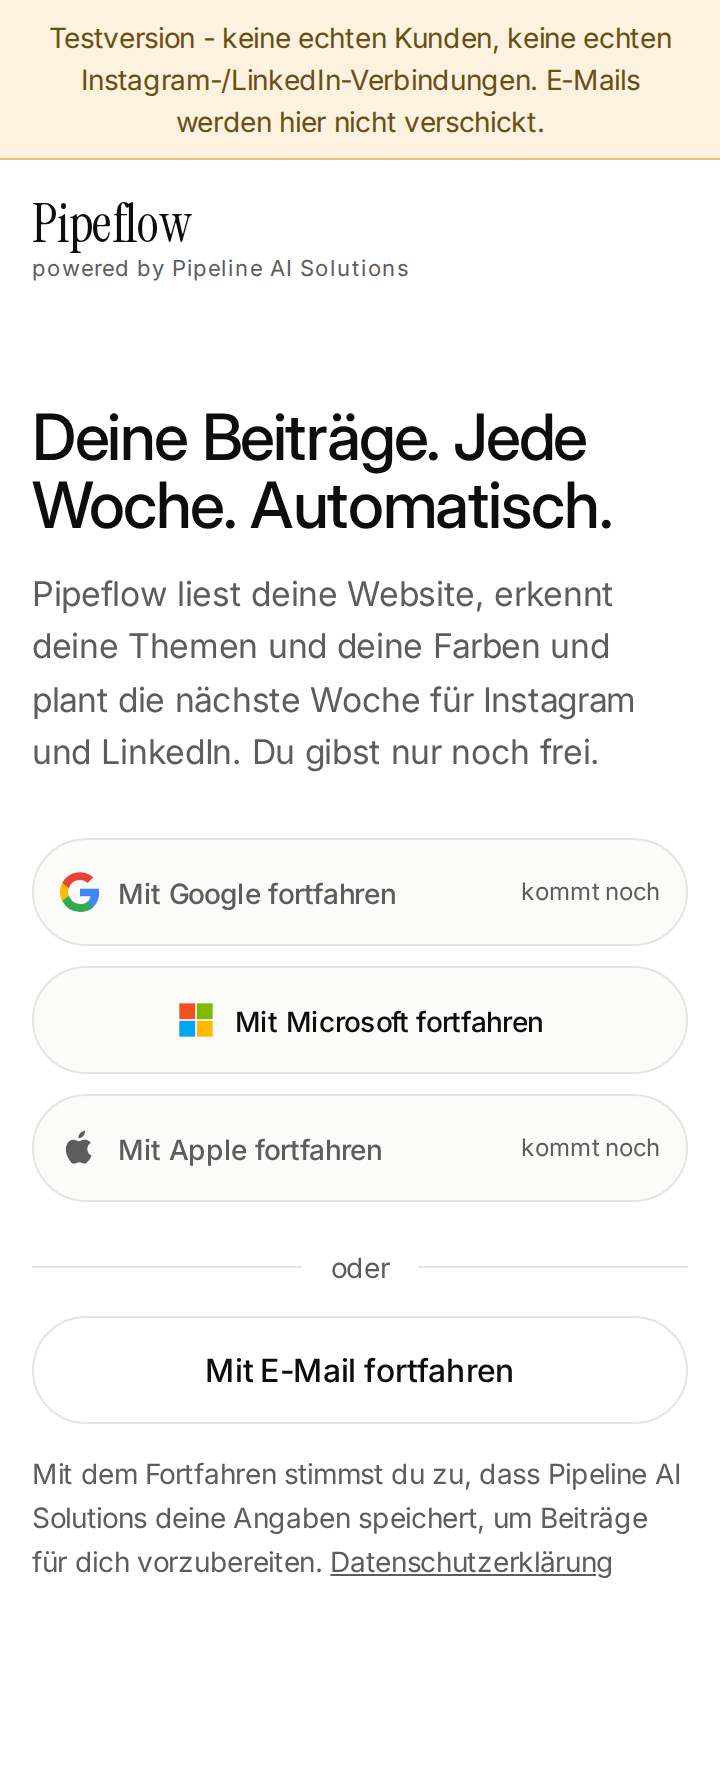
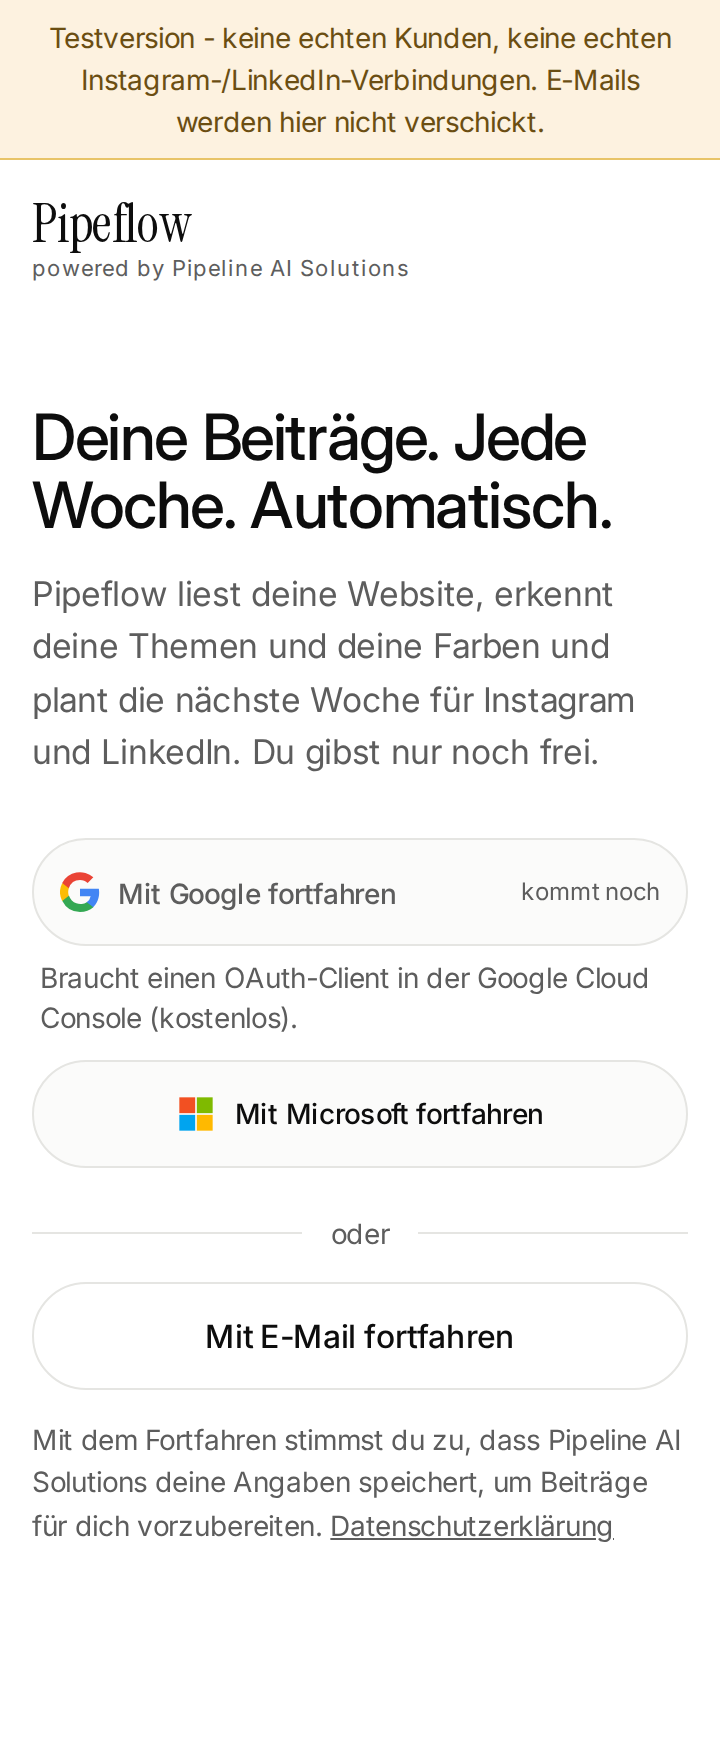
Anmeldebildschirm: Apple ganz raus, Hinweis steht beim Knopf
Apple bekommt hiddenUntilConfigured (Muster wie bei den Kanal-Providern) und
erscheint damit gar nicht mehr, statt ausgegraut dazustehen.

Der Hinweis zu einem nicht eingerichteten Anbieter war eine rote Meldung am
unteren Bildschirmrand, die sich bei jedem Tippen stapelte. Jetzt steht er als
ruhige graue Zeile direkt unter dem betreffenden Knopf, und der Knopf ist echt
disabled statt nur aria-disabled.

diff --git a/src/panel/auth-providers.ts b/src/panel/auth-providers.ts
@@ -40,6 +40,13 @@ export interface AuthProvider {
   name: string;
   /** Kurzer Satz fuer den Report/das Panel, wenn der Anbieter noch nicht eingerichtet ist. */
   pendingNote: string;
+  /**
+   * Solange keine Zugangsdaten hinterlegt sind, taucht dieser Anbieter im Panel GAR NICHT auf -
+   * kein ausgegrauter Knopf, kein "kommt noch". Fuer Anbieter, bei denen das Einrichten nicht
+   * blosses Eintragen ist, sondern eine Entscheidung mit Kosten (Apple: Developer Program).
+   * Dasselbe Muster wie `hiddenUntilConfigured` bei den Kanal-Providern (providers/index.ts).
+   */
+  hiddenUntilConfigured?: boolean;
   isConfigured(): boolean;
   authorizeUrl(state: string, nonce: string, redirectUri: string): string;
   exchangeCode(code: string, redirectUri: string): Promise<AuthIdentity>;
@@ -213,6 +220,9 @@ export const apple: AuthProvider = {
   id: "apple",
   name: "Apple",
   pendingNote: "Braucht ein Apple Developer Program (rund 99 USD im Jahr) - noch nicht vorhanden.",
+  // Bis das Developer Program da ist, zeigt das Panel Apple ueberhaupt nicht an (19.09.2026, auf
+  // Ansage): ein Knopf, der nur erklaert, warum er nicht geht, ist kein Angebot, sondern Lärm.
+  hiddenUntilConfigured: true,
   isConfigured: () => false,
   authorizeUrl() {
     throw new ToolError("Anmelden mit Apple ist noch nicht eingerichtet.");
@@ -229,6 +239,10 @@ export function getAuthProvider(id: string): AuthProvider | undefined {
   return authProviders.find((p) => p.id === id);
 }
 
+/** Was das Panel anbietet: alles Eingerichtete, plus das Nicht-Eingerichtete, das sich durch
+ *  blosses Eintragen von Zugangsdaten scharf schalten laesst. Siehe hiddenUntilConfigured. */
 export function authProvidersPublic(): { id: string; name: string; available: boolean; note: string | null }[] {
-  return authProviders.map((p) => ({ id: p.id, name: p.name, available: p.isConfigured(), note: p.isConfigured() ? null : p.pendingNote }));
+  return authProviders
+    .filter((p) => p.isConfigured() || !p.hiddenUntilConfigured)
+    .map((p) => ({ id: p.id, name: p.name, available: p.isConfigured(), note: p.isConfigured() ? null : p.pendingNote }));
 }

diff --git a/public/panel/start/start.js b/public/panel/start/start.js
@@ -181,7 +181,13 @@
         <div class="auth-liste">
           ${liste.map((p) => p.available
             ? `<a class="auth-btn" href="${esc(MOUNT)}/auth/${esc(p.id)}">${AUTH_LOGO[p.id] || ""}Mit ${esc(p.name)} fortfahren</a>`
-            : `<button type="button" class="auth-btn kommt-noch" data-auth-pending="${esc(p.id)}" aria-disabled="true">${AUTH_LOGO[p.id] || ""}Mit ${esc(p.name)} fortfahren<span class="bald">kommt noch</span></button>`).join("")}
+            // Nicht eingerichtet: der Grund steht direkt unter DIESEM Knopf. Frueher kam er als
+            // rote Meldung am unteren Bildschirmrand hoch - weit weg vom Knopf, und bei jedem
+            // Tippen eine weitere obendrauf.
+            : `<div class="auth-eintrag">
+                 <button type="button" class="auth-btn kommt-noch" disabled>${AUTH_LOGO[p.id] || ""}Mit ${esc(p.name)} fortfahren<span class="bald">kommt noch</span></button>
+                 ${p.note ? `<p class="auth-notiz">${esc(p.note)}</p>` : ""}
+               </div>`).join("")}
         </div>
         <div class="auth-trenner">oder</div>
         <div class="actions" style="margin-top:14px"><button type="button" class="btn secondary lg" data-go="email">Mit E-Mail fortfahren</button></div>
@@ -1060,12 +1066,6 @@
       if (ziel === "home") { go(angemeldet() ? (eingerichtet() ? "dashboard" : "ergebnis") : "konto"); return; }
       if (ziel === "dashboard" && !eingerichtet()) { go("plan"); return; }
       go(ziel);
-      return;
-    }
-    const bald = t.closest("[data-auth-pending]");
-    if (bald) {
-      const p = S.authProviders.find((x) => x.id === bald.dataset.authPending);
-      toast(p?.note || "Dieser Anmeldeweg wird gerade eingerichtet. Nimm so lange den E-Mail-Weg.", "bad");
       return;
     }
     if (t.closest("#ki-verbessern")) { kiVerbessern(); return; }

diff --git a/public/panel/start/start.css b/public/panel/start/start.css
@@ -196,6 +196,9 @@ button { font: inherit; letter-spacing: inherit; color: inherit; }
 .auth-btn.kommt-noch { cursor: default; color: var(--text-2); }
 .auth-btn.kommt-noch:hover { border-color: var(--linie); background: var(--flaeche); }
 .auth-btn .bald { margin-left: auto; font-size: var(--t-micro); color: var(--text-2); font-weight: 400; white-space: nowrap; }
+.auth-eintrag { display: grid; gap: 6px; }
+.auth-notiz { font-size: var(--t-small); color: var(--text-2); padding: 0 4px; line-height: 1.45; }
+.auth-btn[disabled] { cursor: default; }
 .auth-trenner { margin: 22px 0 0; display: flex; align-items: center; gap: 14px; color: var(--text-2); font-size: var(--t-small); }
 .auth-trenner::before, .auth-trenner::after { content: ""; height: 1px; background: var(--linie); flex: 1; }
 

diff --git a/docs/EASY_ONBOARDING_REPORT.md b/docs/EASY_ONBOARDING_REPORT.md
@@ -82,8 +82,10 @@ einmaliges Eintragen. Außerdem liefert Apple Name und E-Mail **nur beim allerer
 mit; wer das Konto einmal löscht und neu anlegt, bekommt sie nie wieder. Und mit „E-Mail
 verbergen" kommt eine Weiterleitungsadresse (`@privaterelay.appleid.com`), an die wir zwar
 schreiben können, die aber als Kundenadresse im Panel unbrauchbar aussieht. Mein Vorschlag:
-Apple erst, wenn ein Kunde ausdrücklich danach fragt. Im Panel steht der Knopf sichtbar da und
-sagt ehrlich „kommt noch", es ist nichts nachgebaut.
+Apple erst, wenn ein Kunde ausdrücklich danach fragt. **Im Panel erscheint Apple seit 19.09.2026
+gar nicht** (`hiddenUntilConfigured`, dasselbe Muster wie beim Google-Unternehmensprofil unter
+den Kanälen): ein Knopf, der nur erklärt, warum er nicht funktioniert, ist kein Angebot. Sobald
+Zugangsdaten hinterlegt sind, taucht er von selbst auf, ohne Code-Änderung.
 
 **Der E-Mail-Weg bleibt** als Rückfalloption unter den drei Knöpfen, wie beauftragt: Adresse
 eingeben, Konto entsteht sofort, Bestätigungsmail geht raus, und der Bestätigungsschritt bleibt
@@ -325,6 +327,13 @@ Ergebnis und im Dashboard, die Vorschaukarten ändern sich beim Ziehen am Farbre
 Umsortieren per Pfeil vom Server bestätigt, nach der Bestätigung null Platzhalter übrig. Je
 Bildschirm geprüft: nichts über den Rand, höchstens ein Pflichtfeld, Tap-Ziele ab 44 px, keine
 Überlappung, keine JavaScript-Fehler.
+
+Nach deiner Rückmeldung vom 19.09. noch behoben: Apple stand als ausgegrauter Knopf herum statt
+zu verschwinden, und der Hinweis „Braucht einen OAuth-Client …" kam als **rote** Meldung am
+unteren Bildschirmrand hoch - bei jedem Tippen eine weitere obendrauf. Beides reproduziert
+(zwei gestapelte Meldungen, 16 und 90 px über dem Rand) und geändert: der Hinweis steht jetzt
+als ruhige graue Zeile 6 px unter genau dem Knopf, zu dem er gehört, und der Knopf ist echt
+`disabled` statt nur `aria-disabled` - damit gibt es auch nichts mehr zu stapeln.
 
 Unterwegs gefunden und behoben, damit es nicht wie „lief sofort" aussieht: `/start` ohne Slash
 wurde hinter dem Sandbox-Proxy falsch umgeleitet; das Polling endete stumm beim Wechsel von
